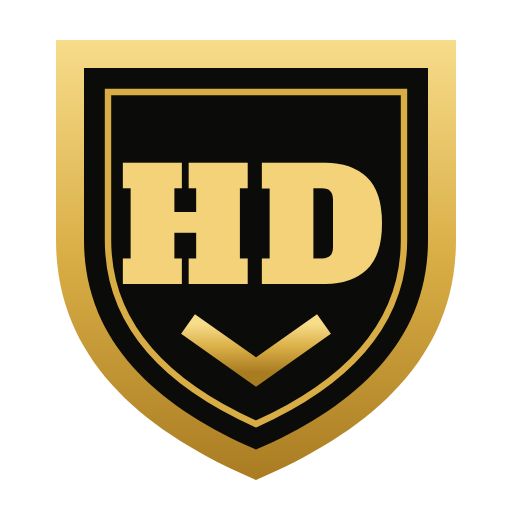
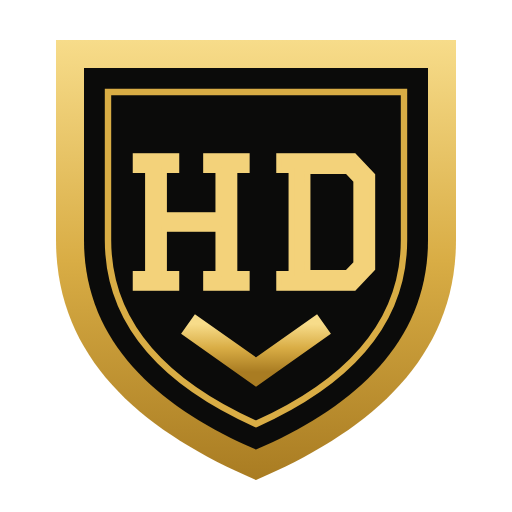
Varsity lettering for the crest, name and headings
Claude-Session: https://claude.ai/code/session_01ME2nU3JQ6h8wLruJAvxXf3

Changed region(s): [[0.2188, 0.2812, 0.75, 0.5938]]

diff --git a/site/index.html b/site/index.html
@@ -4,19 +4,19 @@
 <meta charset="utf-8">
 <meta name="viewport" content="width=device-width, initial-scale=1">
 <title>HandsDownAI</title>
-<link rel="icon" href="logo-crest2.svg" type="image/svg+xml">
-<link rel="apple-touch-icon" href="apple-touch-icon.png?v=2">
+<link rel="icon" href="logo-crest3.svg" type="image/svg+xml">
+<link rel="apple-touch-icon" href="apple-touch-icon.png?v=3">
 <meta property="og:title" content="HandsDownAI">
 <meta name="theme-color" content="#0b0b0a">
 <meta name="description" content="Predicted margins of victory and win chances for NFL, NBA and college football, updated every 15 minutes.">
 <link rel="preconnect" href="https://fonts.googleapis.com">
-<link rel="stylesheet" href="https://fonts.googleapis.com/css2?family=Graduate&family=Alfa+Slab+One&display=swap">
-<link rel="stylesheet" href="style.css?v=3">
+<link rel="stylesheet" href="https://fonts.googleapis.com/css2?family=Graduate&display=swap">
+<link rel="stylesheet" href="style.css?v=4">
 </head>
 <body>
 <header>
   <div class="wrap">
-    <h1 class="brand"><img src="logo-crest2.svg" alt="" width="44" height="44"><span>HandsDown<b>AI</b></span></h1>
+    <h1 class="brand"><img src="logo-crest3.svg" alt="" width="44" height="44"><span>HandsDown<b>AI</b></span></h1>
     <p class="sub">Best bets, predictions and an honest track record for NFL, NBA and college football. Updated every 15 minutes with the latest injury news.</p>
     <p class="updated" id="updated">Loading…</p>
   </div>

diff --git a/site/style.css b/site/style.css
@@ -2,7 +2,7 @@
   /* black and gold */
   --bg: #0b0b0a; --card: #161512; --ink: #f2ead7; --muted: #a59c86; --line: #2c2820;
   --accent: #d4a73a; --gold-hi: #f3d27a; --good: #8fd18b; --bad: #e8866a; --chip: #211e17;
-  --display: "Alfa Slab One", Georgia, serif;
+  --display: "Graduate", Georgia, serif;
   color-scheme: dark;
 }
 * { box-sizing: border-box; }
@@ -97,4 +97,4 @@ h2 { color: var(--gold-hi); text-transform: uppercase; font-size: 1.15rem; }
 .day { color: var(--accent); }
 summary, a { color: var(--accent); }
 .teaser { color: var(--ink); }
-.bet h3 { color: var(--gold-hi); }
+.bet h3 { color: var(--gold-hi); text-transform: uppercase; letter-spacing: .05em; }
